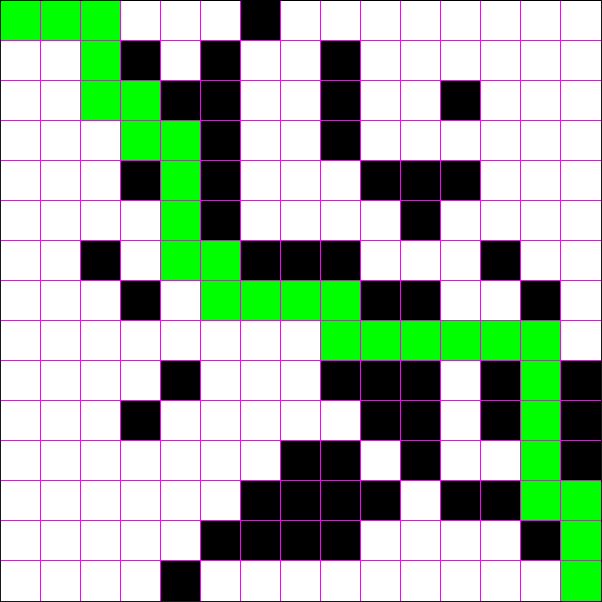
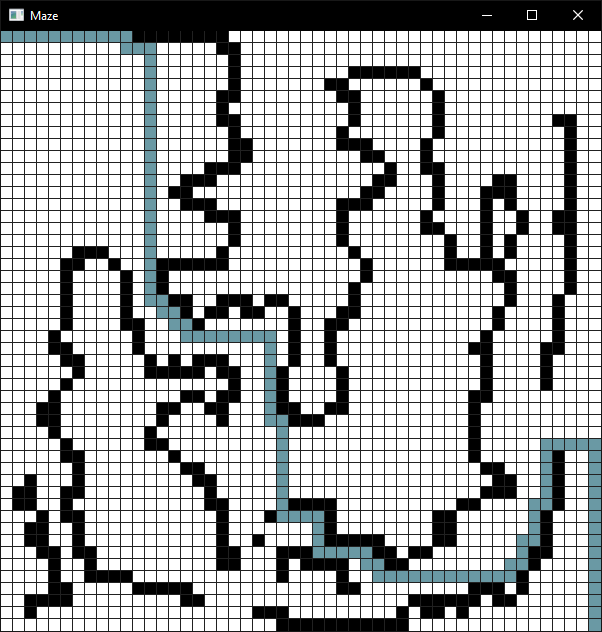
Make Drawing continuous

diff --git a/Pathfinder/AStarSolver.cpp b/Pathfinder/AStarSolver.cpp
@@ -24,7 +24,7 @@ void AStarSolver::setup() {
 			cell->obstacle = false;
 			cell->sfrect.setSize(sf::Vector2f(WIN_SIZE/SIZE, WIN_SIZE/SIZE));
 			cell->sfrect.setOutlineThickness(1);
-			cell->sfrect.setOutlineColor(sf::Color::Magenta);
+			cell->sfrect.setOutlineColor(sf::Color::Color(33, 33, 33));
 			cell->sfrect.setPosition(row * WIN_SIZE / SIZE, col * WIN_SIZE / SIZE);
 		}
 	}
@@ -142,7 +142,7 @@ void AStarSolver::print_path() {
 	cout << "The Path is \n";
 	for (auto i = path.begin(); i != path.end(); i++) {
 		cout << "(" << (*i)->i << ", " << (*i)->j <<" H = " << (*i)->h << " - F = " << (*i)->f << ")" << endl;
-		(*i)->sfrect.setFillColor(sf::Color::Green);
+		(*i)->sfrect.setFillColor(sf::Color::Color(106, 153, 164));
 	}
 }
 

diff --git a/Pathfinder/main.cpp b/Pathfinder/main.cpp
@@ -24,11 +24,13 @@ int main() {
 			bool acceptevents = true;
 			if (event.type == sf::Event::Closed)
 				window.close();
-			if (event.type == sf::Event::MouseButtonPressed && acceptevents) {
+			if (sf::Mouse::isButtonPressed(sf::Mouse::Left)) {
+
 				sf::Vector2i localPosition = sf::Mouse::getPosition(window);
 				int x = localPosition.x * SIZE / window.getSize().x;
 				int y = localPosition.y * SIZE / window.getSize().y;
-				solver.make_cell_wall(y, x);
+				if (x >= 0 && y >= 0 && x < SIZE && y < SIZE)
+					solver.make_cell_wall(y, x);
 			}
 			if (event.type == sf::Event::KeyPressed && acceptevents) {
 				if (event.key.code == sf::Keyboard::Enter) {

diff --git a/Pathfinder/AStarSolver.h b/Pathfinder/AStarSolver.h
@@ -4,7 +4,7 @@
 #include <iostream>
 #include <map>
 #include <SFML/Graphics.hpp>
-#define SIZE 15
+#define SIZE 50
 using std::vector;
 using std::pair;
 using std::map;

diff --git a/Pathfinder/README.md b/Pathfinder/README.md
@@ -9,3 +9,4 @@ PathFinder in a Maze Implemented Using the A* Algorithm and SFML For Graphics.
 ## Example
 Here is an Example of The Program after Solving a maze.
 ![Example](./Example.png)
+![Example](./Example2.png)
